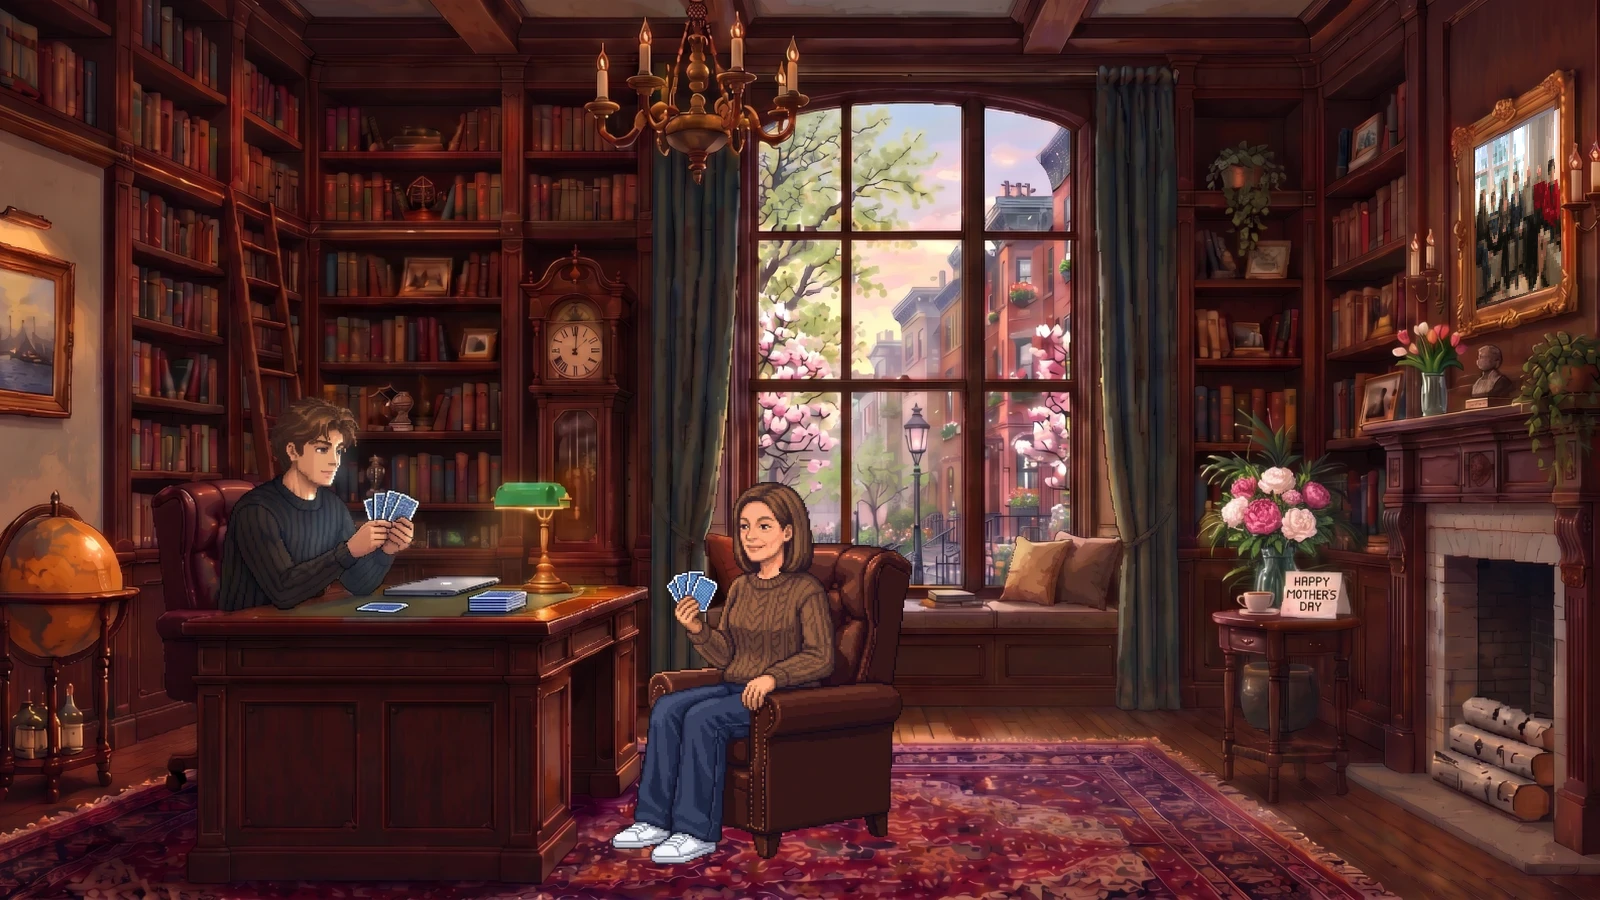
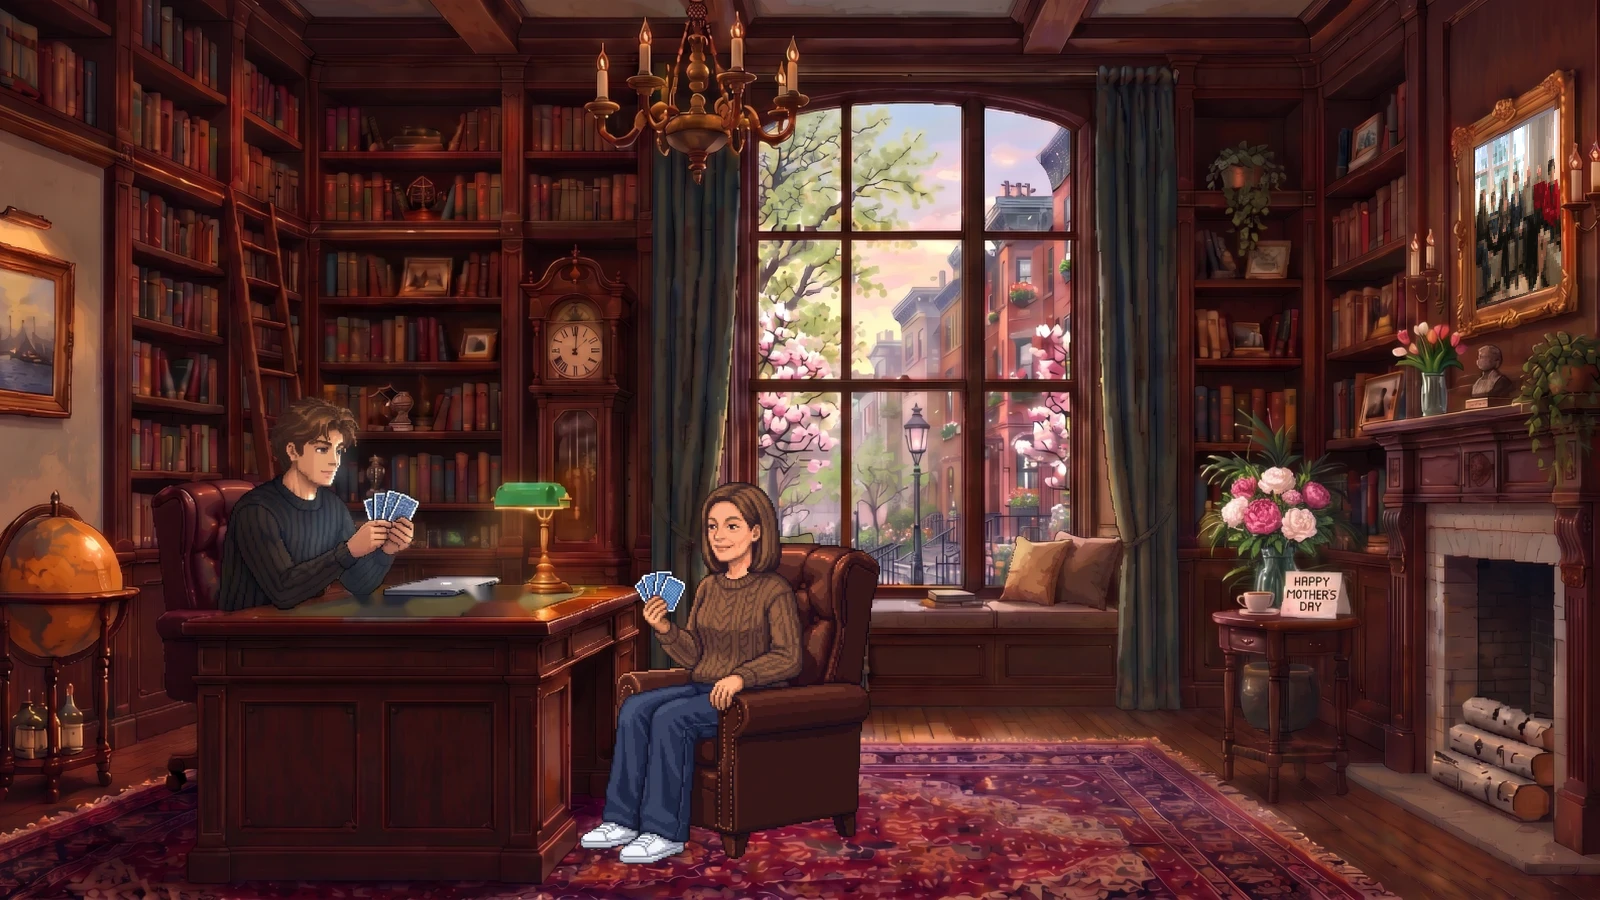
Mother's Day cards demo: reaching poses, deck moved down, pile in the middle

Changed region(s): [[0.3438, 0.5289, 0.5938, 0.9644], [0.2812, 0.6533, 0.3438, 0.6844], [0.2188, 0.6533, 0.25, 0.6844]]

diff --git a/src/main.js b/src/main.js
@@ -776,30 +776,41 @@ function arc(a, b, k, lift) {
   return [a[0] + (b[0] - a[0]) * e, a[1] + (b[1] - a[1]) * e - Math.sin(Math.PI * e) * lift];
 }
 
+const davidReach = { ...sprites['david-reach'], img: sprite(sprites['david-reach'].src) };
+const momReach = { ...sprites['mom-reach'], img: sprite(sprites['mom-reach'].src) };
+const momBehind = { ...sprites['mom-behind'], img: sprite(sprites['mom-behind'].src) };
+const drawSprite = (s) => { if (ready(s.img)) { const [x1, y1, x2, y2] = s.rect; blit(s.img, x1, y1, x2 - x1, y2 - y1); } };
+
+function pileCard(n) {
+  const [px, py] = CARD_GAME.pile;
+  pxCard(px + (cardRng(n) - 0.5) * 6, py + (cardRng(n + 7) - 0.5) * 3, true, Math.floor(cardRng(n + 3) * 4), (cardRng(n + 11) - 0.5) * 0.5);
+}
+
+// One turn: reach out with a card, lay it face up on the pile, sit back, then draw from the deck.
 function drawCards(t) {
   const turn = Math.floor(t / TURN);
   const k = (t % TURN) / TURN;
-  const players = ['david', 'mom'];
-  const who = players[turn % 2];
-  // the pile shows the last few cards played (it's gathered up every 10 turns)
-  const pileFrom = turn - (turn % 10);
-  for (let n = Math.max(pileFrom, turn - 4); n < turn; n++) {
-    const [px, py] = CARD_GAME.pile;
-    pxCard(px + (cardRng(n) - 0.5) * 5, py + (cardRng(n + 7) - 0.5) * 3, true, Math.floor(cardRng(n + 3) * 4), (cardRng(n + 11) - 0.5) * 0.5);
+  const who = turn % 2 ? 'mom' : 'david';
+  const [dx, dy] = CARD_GAME.deck;
+  for (let i = 3; i >= 0; i--) pxCard(dx - i * 0.6, dy - i * 1.2, false, 0, 0); // the deck, a few cards thick
+  const pileFrom = turn - (turn % 10); // the pile is gathered up every 10 turns
+  for (let n = Math.max(pileFrom, turn - 4); n < turn; n++) pileCard(n);
+  const reaching = k > 0.08 && k < 0.38;
+  if (reaching) {
+    if (who === 'david') drawSprite(davidReach);
+    else { drawSprite(momBehind); drawSprite(momReach); }
   }
-  const hand = CARD_GAME.hands[who];
-  if (k < 0.25) {
-    // lay a card: from the hand, face up, onto the pile
-    const [x, y] = arc(hand, CARD_GAME.pile, k / 0.25, 18);
-    pxCard(x, y, true, Math.floor(cardRng(turn + 3) * 4), (cardRng(turn + 11) - 0.5) * 0.5 * (k / 0.25));
-  } else {
-    const [px, py] = CARD_GAME.pile;
-    pxCard(px + (cardRng(turn) - 0.5) * 5, py + (cardRng(turn + 7) - 0.5) * 3, true, Math.floor(cardRng(turn + 3) * 4), (cardRng(turn + 11) - 0.5) * 0.5);
+  if (k > 0.28 && k < 0.38) {
+    // the card leaves her or his fingers and drops onto the pile
+    const [x, y] = arc(CARD_GAME.reach[who], CARD_GAME.pile, (k - 0.28) / 0.1, 6);
+    pxCard(x, y, true, Math.floor(cardRng(turn + 3) * 4), (cardRng(turn + 11) - 0.5) * 0.5);
+  } else if (k >= 0.38) {
+    pileCard(turn);
   }
-  if (k > 0.4 && k < 0.65) {
+  if (k > 0.5 && k < 0.72) {
     // draw a card: off the top of the deck, face down, back into the hand
-    const [x, y] = arc(CARD_GAME.deck, hand, (k - 0.4) / 0.25, 14);
-    pxCard(x, y, false, 0, 0, 1);
+    const [x, y] = arc([dx - 1.8, dy - 3.6], CARD_GAME.hands[who], (k - 0.5) / 0.22, 14);
+    pxCard(x, y, false, 0, 0);
   }
 }
 

diff --git a/src/scene.js b/src/scene.js
@@ -128,11 +128,13 @@ export const CURTAIN = [
   [1140, 568], [1086, 420], [1046, 250],
 ];
 
-// Mother's Day card game (frame pixels): where each player's hand is, the deck and the discard pile.
+// Mother's Day card game (frame pixels): each player's resting hand, where the card is in their
+// reaching pose, the face-down deck and the face-up pile.
 export const CARD_GAME = {
-  hands: { david: [390, 506], mom: [688, 588] },
-  deck: [497, 598],
-  pile: [565, 600],
+  hands: { david: [390, 506], mom: [660, 590] },
+  reach: { david: [530, 566], mom: [550, 650] },
+  deck: [392, 604],
+  pile: [497, 600],
 };
 
 // Passers-by on the sidewalk outside the window: head and shoulders, first at 4s, then every 30s,
